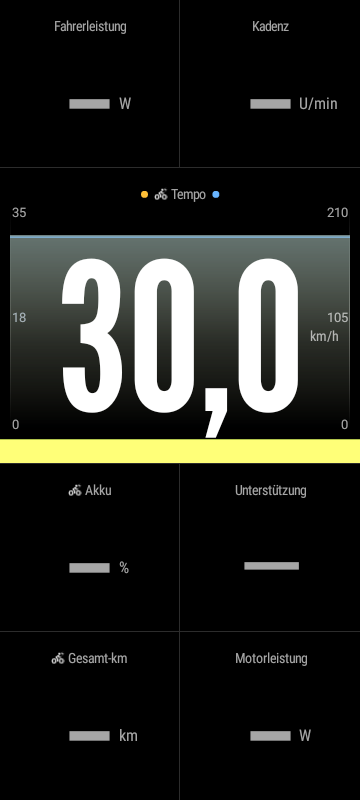
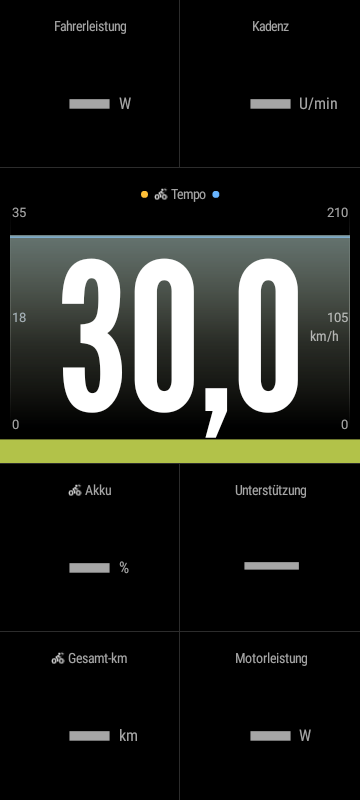
Allow NP at ninety percent coverage and render Flat training bars normally

Changed region(s): [[0.0, 0.5312, 1.0, 0.5938]]

diff --git a/app/src/main/java/de/bcycle/app/PerformanceEngine.kt b/app/src/main/java/de/bcycle/app/PerformanceEngine.kt
@@ -44,9 +44,10 @@ data class PerformanceValues(
 /** Only bounded state: actual events -> time integral -> complete 1 s bins -> complete 30 s windows. */
 class PerformanceEngine(private val energy: EnergyEngine = EnergyEngine(), powerDurationsMs: List<Long> = emptyList(), private val primaryPowerSource:PowerSource=PowerSource.BOSCH_RIDER,private val resolvedPower:Boolean=false) {
     companion object {
-        const val MODEL_VERSION = 3
+        const val MODEL_VERSION = 4
         const val MAX_HOLD_MS = 5_000L
         const val MIN_COVERAGE = .95
+        const val MIN_NP_COVERAGE = .90
     }
     private val powerWindows = (powerDurationsMs + 20 * 60 * 1000L).distinct().associateWith { PowerDurationWindow(it) }
     internal fun bestPowerAverages(): Map<Long, Double> = powerWindows.mapNotNull { (duration, window) ->
@@ -183,7 +184,7 @@ class PerformanceEngine(private val energy: EnergyEngine = EnergyEngine(), power
         // A local gap breaks its 30 s windows and FTP continuity, not an otherwise
         // well-covered ride. Coverage and complete-window coverage remain required.
         val enough = activeMs > 0 && quality.powerCoverage >= MIN_COVERAGE
-        val np = if (enough && windowCount > 0 && potentialWindows > 0 && windowCount.toDouble() / potentialWindows >= MIN_COVERAGE)
+        val np = if (activeMs > 0 && quality.powerCoverage >= MIN_NP_COVERAGE && windowCount > 0 && potentialWindows > 0 && windowCount.toDouble() / potentialWindows >= MIN_NP_COVERAGE)
             fourthMean.coerceAtLeast(0.0).pow(.25).takeIf { it.isFinite() } else null
         // Work is the observed integral, not a rescaled estimate for unobserved seconds.
         val work = (workJ / 1000).takeIf { enough && it.isFinite() }

diff --git a/app/src/test/java/de/bcycle/app/PerformanceEngineTest.kt b/app/src/test/java/de/bcycle/app/PerformanceEngineTest.kt
@@ -18,6 +18,24 @@ class PerformanceEngineTest {
         engine.advance(values.size * 1000L)
         return engine.snapshot()
     }
+    @Test fun npUsesNinetyPercentCoverageWhileEnergyKeepsItsExistingThreshold() {
+        fun ride(missingSeconds:Int):PerformanceValues {
+            val e=PerformanceEngine()
+            for(second in 0 until 600) {
+                e.accept(power(second*1000L,if(second<missingSeconds) null else 200.0))
+            }
+            e.advance(600000);return e.snapshot()
+        }
+        // Startup missing intervals avoid a second recovery window: 57/571=9.98%.
+        val accepted=ride(57)
+        assertTrue(accepted.quality.npWindowCoverage>=.90 && accepted.quality.npWindowCoverage<.95)
+        assertEquals(200.0,accepted.normalizedPowerW!!,1e-9)
+        assertNull(accepted.mechanicalWorkKj);assertNull(accepted.caloriesKcal)
+        assertTrue(accepted.quality.powerCoverage<.95)
+        val rejected=ride(58)
+        assertTrue(rejected.quality.npWindowCoverage<.90)
+        assertNull(rejected.normalizedPowerW)
+    }
     @Test fun oneHourAt200WattsMatchesPhysicalAndTrainingReferenceValues() {
         val v = series(List(3600) { 200.0 })
         assertEquals(200.0, v.normalizedPowerW!!, 1e-9)

diff --git a/app/src/main/java/de/bcycle/app/RouteAnalysisView.kt b/app/src/main/java/de/bcycle/app/RouteAnalysisView.kt
@@ -122,9 +122,9 @@ internal class RouteAnalysisView(context: Context, private val themes: ThemeMana
                             val reason=when {
                                 quality.activeMs==0L->R.string.analysis_np_no_time
                                 quality.activeMs<30000->R.string.analysis_np_too_short
-                                quality.powerCoverage<PerformanceEngine.MIN_COVERAGE->R.string.analysis_np_power_coverage
+                                quality.powerCoverage<PerformanceEngine.MIN_NP_COVERAGE->R.string.analysis_np_power_coverage
                                 quality.npWindows==0L->R.string.analysis_np_no_window
-                                quality.npWindowCoverage<PerformanceEngine.MIN_COVERAGE->R.string.analysis_np_window_coverage
+                                quality.npWindowCoverage<PerformanceEngine.MIN_NP_COVERAGE->R.string.analysis_np_window_coverage
                                 else->R.string.analysis_np_missing
                             }
                             addView(BicycleComponents.description(context,themes,context.getString(R.string.analysis_np_reason,

diff --git a/app/src/test/java/de/bcycle/app/TrainingZoneUiTest.kt b/app/src/test/java/de/bcycle/app/TrainingZoneUiTest.kt
@@ -212,10 +212,17 @@ class TrainingZoneUiTest {
         assertTrue(Color.alpha(solid.getPixel(0,92))>0)
         assertEquals(solid.getPixel(0,96),solid.getPixel(100,96))
         assertEquals(solid.getPixel(100,96),solid.getPixel(199,99))
-        zone.update(Color.RED);now=2250;val mixed=zone.currentColor()
+        assertEquals("Normal blend preserves the source zone color",Color.BLUE,solid.getPixel(100,96))
+        for(zoneColor in TrainingZoneColors.powerValues) {
+            zone.update(zoneColor);now+=1500
+            val paletteImage=image()
+            assertEquals(zoneColor,paletteImage.getPixel(100,96));paletteImage.recycle()
+        }
+        zone.update(Color.BLUE);now+=1500
+        zone.update(Color.RED);now+=750;val mixed=zone.currentColor()
         assertTrue(Color.red(mixed)>0 && Color.blue(mixed)>0)
         zone.flat=false;assertEquals(mixed,zone.currentColor())
-        zone.flat=true;zone.update(null);now=3750
+        zone.flat=true;zone.update(null);now+=1500
         val cleared=image();assertEquals(0,Color.alpha(cleared.getPixel(100,99)))
         solid.recycle();cleared.recycle()
     }

diff --git a/app/src/main/java/de/bcycle/app/ZoneAmbientGlow.kt b/app/src/main/java/de/bcycle/app/ZoneAmbientGlow.kt
@@ -37,10 +37,10 @@ internal class ZoneAmbientGlow(private val clock: () -> Long = { android.os.Syst
         }
         if (flat && !bounds.isEmpty && Color.alpha(color)>0) {
             paint.shader=null
-            paint.color=(color and 0xffffff) or ((Color.alpha(color)*BicycleDesign.modeGlowAlpha/255) shl 24)
-            paint.blendMode=BlendMode.PLUS
+            paint.color=color
+            paint.blendMode=BlendMode.SRC_OVER
             val top=bounds.bottom-bounds.height()*BicycleDesign.trainingBarHeightFraction
-            repeat(BicycleDesign.ambientGlowPasses) { canvas.drawRect(bounds.left.toFloat(),top,bounds.right.toFloat(),bounds.bottom.toFloat(),paint) }
+            canvas.drawRect(bounds.left.toFloat(),top,bounds.right.toFloat(),bounds.bottom.toFloat(),paint)
             paint.blendMode=null
         } else if (!flat && !bounds.isEmpty && shader != null) {
             matrix.setScale((bounds.width() * .5f - .5f).coerceAtLeast(.5f), bounds.height() * .4f)

diff --git a/docs/performance-energy-0617.md b/docs/performance-energy-0617.md
@@ -43,7 +43,7 @@ Zwischen zwei Beobachtungen wird der letzte gültige Wert stückweise konstant v
 - Leistung gültig 0…65.535 W (Protokollbereich), Puls 1…255 bpm, Geschwindigkeit 0…35 m/s.
 - Exportierbare Arbeit/Ratio: mindestens 95 % zeitliche Leistungsabdeckung. Unbekannte Abschnitte werden nicht ergänzt; eine einzelne längere Lücke sperrt eine ansonsten ausreichend belegte Fahrt nicht pauschal.
 - Arbeit ist auch dann ausschließlich das Integral der bekannten Abschnitte. Bis zu 5 % fehlende Zeit wird **nicht extrapoliert**. Der Wert kann daher den vollständigen Fahrtwert unterschätzen. Qualitätsfelder machen dies nachvollziehbar.
-- NP zusätzlich: mindestens ein vollständiges 30-s-Fenster und mindestens 95 % nutzbare vollständige Fenster im aktiven Auswertungszeitraum. Eine Lücke verwirft alle über sie laufenden Fenster.
+- NP: mindestens90% zeitliche Leistungsabdeckung, mindestens ein vollständiges30-s-Fenster und mindestens90% nutzbare vollständige Fenster im aktiven Auswertungszeitraum. Eine Lücke verwirft alle über sie laufenden Fenster.
 - EF erfordert vollständige Pulsabdeckung aller tatsächlich ausgewerteten Leistungsabschnitte. Fehlender Puls macht EF unverfügbar, nicht aber gültige Leistungskennzahlen.
 - Sehr kurze Fahrten können Arbeit/Kalorien liefern, aber vor 30 vollständigen Sekunden keine NP/EF.
 
@@ -137,7 +137,7 @@ Kalorien, Speed-to-Power und EF werden aus dem gemeinsamen Modell berechnet.
 `POWER_ZERO_STATE_TIME` in Lap/Session (Developer Field, Sekunden) kennzeichnet
 die Zeit, in der eine explizite Null durch frische Bike-Telemetrie fortgeführt wurde.
 Diese Zeit ist in der berechneten Leistungsabdeckung enthalten. Die Grenzen von
-95 % Leistungsabdeckung und für NP zusätzlich 95 % vollständige 30-Sekunden-Fenster bleiben erforderlich. Die fünf Sekunden begrenzen die Fortschreibung einzelner Messungen; sie sind kein pauschales Ausschlusskriterium für eine ganze lange Fahrt. EF erfordert Puls über alle ausgewerteten Leistungsabschnitte.
+Für Arbeit/Ratio/Kalorien bleiben95% Leistungsabdeckung erforderlich; NP verwendet seit29.10.2026 jeweils90% Leistungs- und vollständige30-Sekunden-Fensterabdeckung. Die fünf Sekunden begrenzen die Fortschreibung einzelner Messungen; sie sind kein pauschales Ausschlusskriterium für eine ganze lange Fahrt. EF erfordert Puls über alle ausgewerteten Leistungsabschnitte.
 
 Das neue, am Ende des Enums ergänzte BIKE_ACTIVITY-Ereignis hält Rad-Telemetrie
 auch bei ausgewählter GPS-Hauptquelle separat fest. Journal-Version 5 bleibt lesbar;
@@ -165,8 +165,7 @@ beziehungsweise Aufzeichnungslücken bleiben unbekannt oder unterbrechen das Fen
 
 Diese Interpretation ändert keine FIT-Records, keine Dateien und keine Rohkurven.
 Geschwindigkeit und echte Nullwerte werden weder in UI-Kurven noch im Journal erfunden.
-Die globale Gültigkeit nutzt die zeitliche Leistungsabdeckung (95 %) und für NP die
-Abdeckung vollständiger 30-s-Fenster (95 %). Dadurch entwertet ein kurzer Akku-Ausfall
+Arbeit/Ratio/Kalorien nutzen weiterhin95% zeitliche Leistungsabdeckung; NP verlangt seit29.10.2026 jeweils90% Leistungsabdeckung und90% vollständige30-s-Fenster. Dadurch entwertet ein kurzer Akku-Ausfall
 nicht automatisch eine sonst gut belegte lange Fahrt. Arbeit bleibt ausschließlich
 beobachtete Arbeit ohne Hochrechnung. EF verwendet vollständig gepaarte Pulsdaten
 über die gültigen Leistungsintervalle. FTP bleibt an exakt 20 Minuten unterbrechungs-
@@ -186,3 +185,6 @@ kleinen Dreier-Kachel-Dauer-/Einheitenanpassung wurden **43 gezielte UI-/Trend-/
 und der Release-Build erneut erfolgreich ausgeführt (**57s**). Keine erneute vollständige
 Suite nach dieser reinen Darstellungskorrektur. Bestehende `onBackPressed()`-Warnung bleibt;
 kein zusätzlicher vollständiger Lint-Lauf oder Gerätetest. Keine neue signierte APK veröffentlicht.
+
+
+NachBuild104,29.10.2026: ausdrückliche Nutzerentscheidung reduziert ausschließlich die NP-Daten-/Fensterqualitätsgrenzen von95% auf90% (MIN_NP_COVERAGE). Gemeinsame95%-Grenzen für Arbeit/Kalorien/Ratio bleiben erhalten; FTP95%-Faktor bleibt erhalten. Vollständige30sFenster weiter ohne Lückenfüllung/Verkettung, EF wiebisher vollständig gepaartePulsintervalle. Performance-MODEL_VERSION4 kennzeichnet geänderteFreigabepolitik bei künftigen Exporten; Rohdaten/Dateiformat unverändert, vorhandeneFITnichtautomatischüberschreiben. Fehlerhinweise verwenden90%.

diff --git a/docs/CONTINUE-HERE.md b/docs/CONTINUE-HERE.md
@@ -1,3 +1,13 @@
+# Nach Build104: NP-Grenze90% und Flat-Balken im ModusNormal
+
+Aktuelle Nutzerentscheidungen umgesetzt und für nächste APK gespeichert. Kein neuer APK-Auftrag; letzte Veröffentlichung0.8.63/Build104. Vorherige Licht-/Warnungs-/Kreis-/Schriftänderungen aus2881d10 bleiben enthalten.
+
+NP: separate MIN_NP_COVERAGE=.90 für Leistungsabdeckung UND vollständige30sFenster. Arbeit/Kalorien/Ratio bleiben bei bisheriger MIN_COVERAGE=.95, FTP-Faktor.95 unverändert. Keine Lückenfüllen, keine Fensterverkettung, vollständig gepaarte EF-Pulsregel erhalten. Performance-MODEL_VERSION4 für neue Exporte. RouteAnalysisView nutzt neueGrenze und Hinweise nennen90%. VorhandeneFITnichtüberschreiben; fehlendeNP wird beimLesen nachbestehenderLogikneuermittelt. Privater OriginalFIT mit tatsächlichemRouteAnalysisRead nochmals geprüft: NP nunberechenbar, Ergebnis/Qualitätsdatenin/workspace/.tools/current-fit-review/report.md. KeineprivateDateiinsRepo.
+
+Flat-Trainingsbalken: ausdrücklichNormal(SRC_OVER), vollständigeZonenfarbe bei vollerDeckkraft, keineGlowAlpha140/255 und keine3PLUS-Durchgänge mehr. PaletteTrainingZoneColors,8%-Geometrie, weicheZonengrenzen/1,5sTransition erhalten. Glow-Modus weiter radial/additiv; Bosch-Glow unverändert. Nutzer hat Änderung direkt und zusätzlich perOptionsantwort bestätigt.
+
+60eindeutigeTestsgrün überrelevanteLäufe: PerformanceEngineTest23(inklneuem90%-Grenztestundbestehenden95%-Energieanforderungen), TrainingZoneUiTest10(alle7ZonenpixelidentischzurPalette), DashboardAppearanceTest5, RouteAnalysisViewTest8, FitWriterTest6, PerformanceFitTest8. Logs /workspace/.tools/np-ninety-flat-normal-tests.log(46), np-ninety-ui-export-tests.log(14,RouteViewwiederholt), np-ninety-fit-tests.log(8). Typografie/Atlas/Diffgrün, native Trainingsvorschauen aktualisiert. KeineGesamtsuite/neuerGerätetest/APK-Build. NächsterAPK voraussichtlich0.8.64/Code134/Build105 (prüfen).
+
 # NachBuild104: Lichtzustand, verbundene Akkuwarnung, Kreis und3erSchriftlimits
 
 NeuesterNutzerauftragumgesetzt, keineAPKangefordert. LetzteVeröffentlichung0.8.63/Build104, nächsterBuildvoraussichtlich0.8.64/Code134/Build105 (prüfen).

diff --git a/AGENTS.md b/AGENTS.md
@@ -686,3 +686,5 @@ NachBuild102: Dashboard-Footer ausdrücklich inFlat/GlowOHNESchatten, normaleEin
 NachBuild103: Benachrichtigungsdauer5–180s im5sRaster. Sliderindex0–35 nurUI, gespeicherteSekunden/Backup unverändert; Altwerte nichtbeimÖffnenüberschreiben. NachrichtenundTrinkerinnerung TOP/BOTTOM vertikal48dpinnerhalb sichererInsets, nuroben/unten! CENTERundSeitenabständeunverändert. Zentraltoken dashboardMessageEdgeInset, maximaleNachrichtenhöhe entsprechendbegrenzen, Kartengrenzeerhalten.
 
 NachBuild104: BIKE_LIGHT0/1 währendbestehenderBoschSessionohne60sTimeout halten, nachDisconnect/ReconnectneuenStateverlangen. Zentralerfresh-PfadfürAnzeige+FIT, keinePollingabfrage. Akkuwarnlevel nurverbundenesEBIKE, gespeichertenLadestandweiteranzeigen. Record-Kreis54dp/27dpÜberstand(-10%), Symbol20dp/Footer58dp. Dynamische3erWerte45sp/Einheiten10spMaxima(frühereFixgrößen), Gruppenskalierungnurkleiner. FarbpaletteTrainingsbalkengleichTrainingZoneColors, bestehendesPLUS-Aufhellennurnacherklärennichtungefragtändern. NP95%-Daten/Fensterqualitätsregel beiDateiprüfungunverändertlassen.
+
+Nutzerkorrektur29.10.2026: NPallein benötigt90%Leistungsabdeckungund90%vollständige30sFenster, MIN_NP_COVERAGE=.90/Modellversion4. Arbeit/Kalorien/Ratio95%undFTP-Faktor.95unverändert. KeineLückenfüllen/keinebestehendenFITautomatischändern. Flat-TrainingsbalkennunNormal(SRC_OVER),volleZonenfarbeohne140/255Glowalphaoder3PLUS-Durchgänge; Übergänge/Geometrieerhalten, Glow-Modusunverändert. Ersetzt frühereAnweisungzurunverändertenadditivenFlatdarstellung.

diff --git a/docs/dashboard-training-help.md b/docs/dashboard-training-help.md
@@ -34,3 +34,6 @@ Veröffentlichung29.10.2026: Diese Änderungen sind in **APK0.8.61/Build102** en
 
 
 Farbprüfung nachBuild104: ZoneGlowColors verwendet direkt TrainingZoneColors (dieselbe Palette wie Leistungs-/Pulsverteilungen und Wartung), nahe Zonengrenzen weich interpoliert. Flat-Rechtecke werden weiterhin mit ursprünglicher Glowintensität140/255 und3PLUS-Durchgängen additiv gezeichnet; dadurch visuell heller/sättigender als reine Zonenfüllungen. Auf Nachfrage nur erläutert, keine Änderung dieses Farb-/Blendverhaltens.
+
+
+NachfolgendeNutzerentscheidung29.10.2026: Flat-Farbbalken jetzt imZeichenmodusNormal(SRC_OVER), bei vollerDeckkraft exakt TrainingZoneColors, keinPLUS/keineGlowAlpha-/Mehrfachpass-Aufhellung. Bereich weiterhinvolleBreite/8%Höhe;1,5sÜbergang undweicheZonengrenzen erhalten. Glow-Design radial/additiv unverändert. DieseRegel ersetzt obigenStand zuradditivenFlat-Zeichnung.
